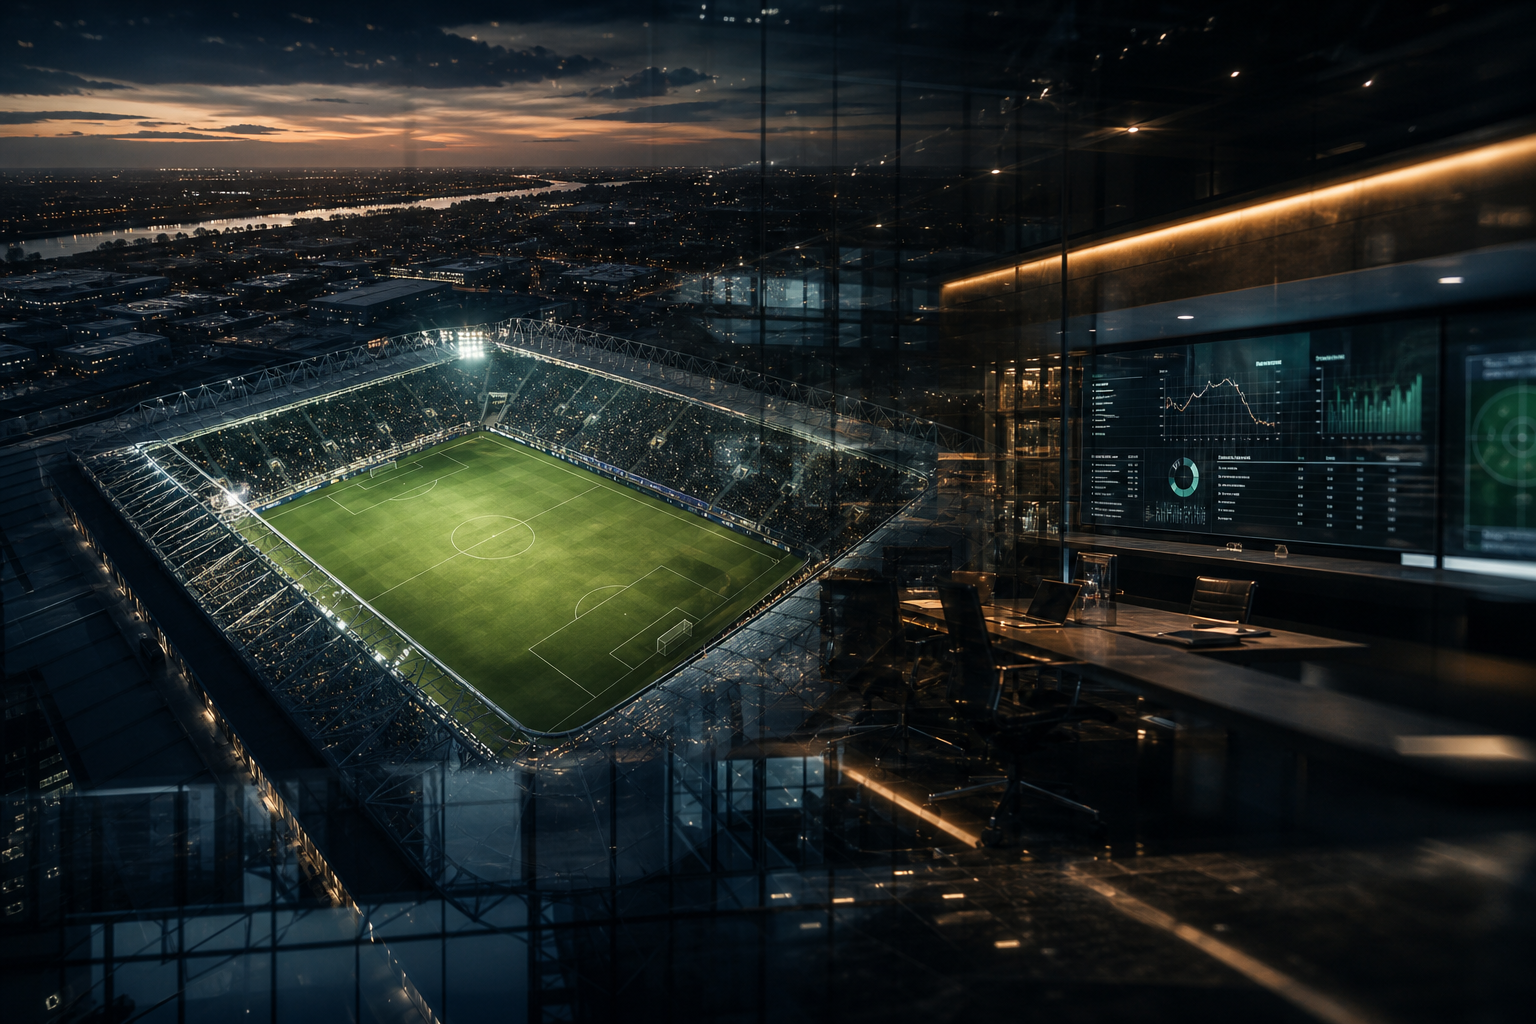
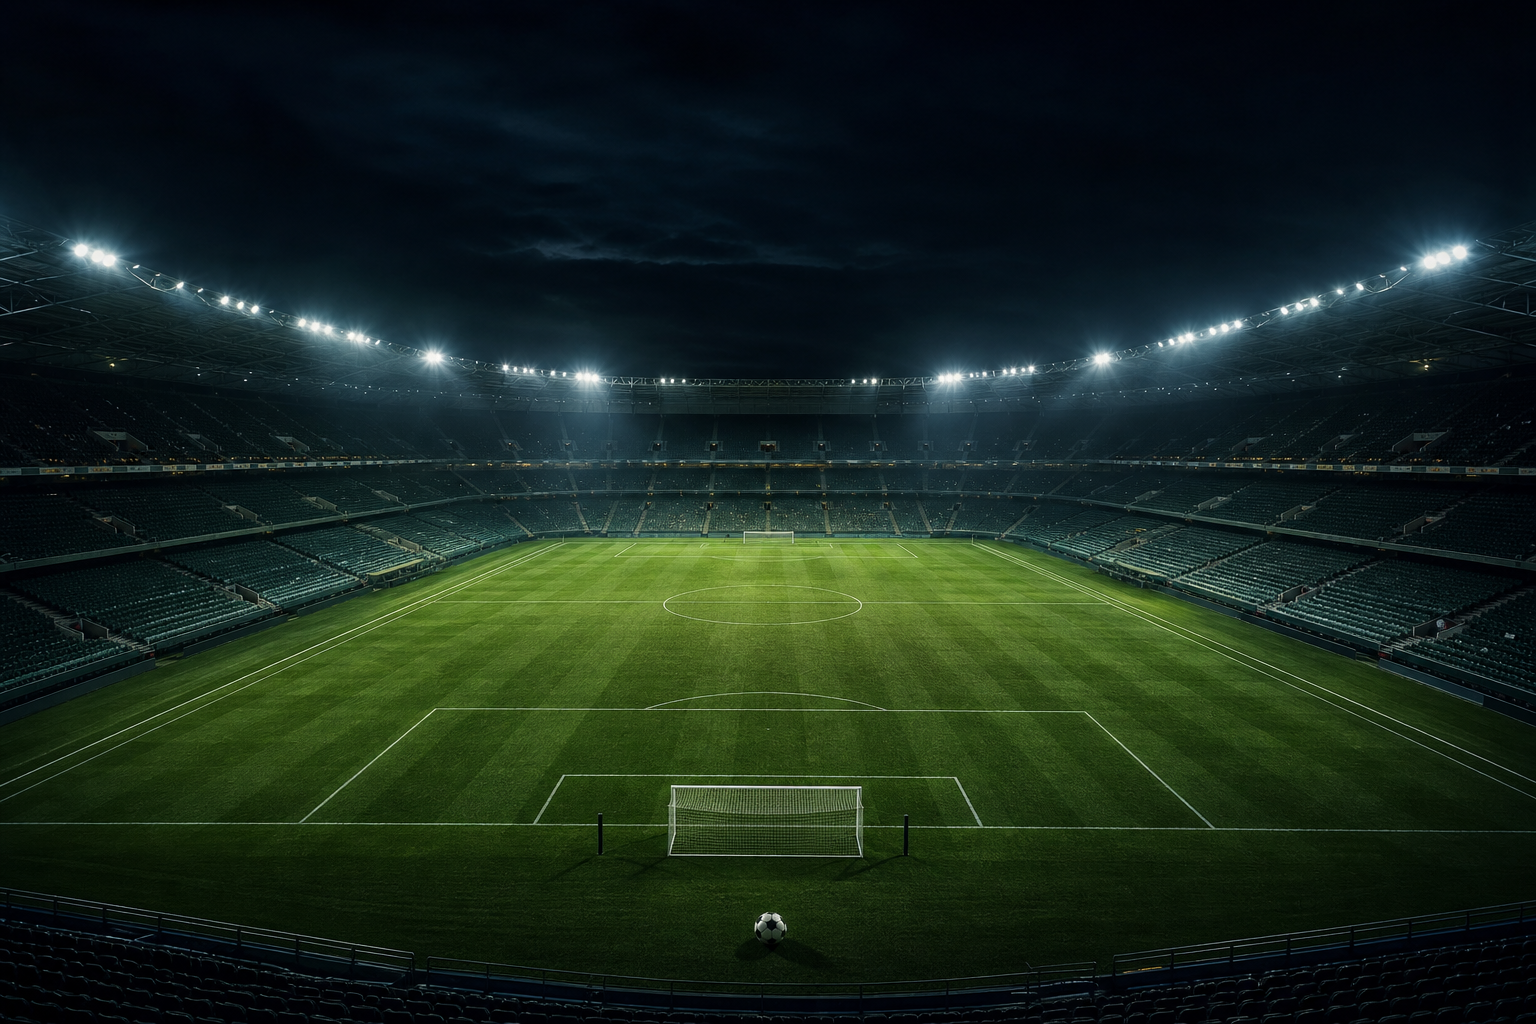
fix(web): troca de senha PATCH, fundo login e requisitos visuais
Corrige proxy change-password em producao, escurece fundo esportivo do login e adiciona olho, barra de progresso e checklist na tela de nova senha.

diff --git a/apps/web/src/app/change-password/page.tsx b/apps/web/src/app/change-password/page.tsx
@@ -1,8 +1,12 @@
 "use client";
 
-import { Suspense, useState, useEffect } from "react";
+import { Suspense, useMemo, useState, useEffect } from "react";
 import { useRouter, useSearchParams } from "next/navigation";
-import { validateCognitoPassword, getPasswordRequirementLabels } from "@/lib/passwordPolicy";
+import { Eye, EyeOff, Check, Loader2 } from "lucide-react";
+import {
+  validateCognitoPassword,
+  getPasswordRequirementChecks,
+} from "@/lib/passwordPolicy";
 import { authFetch } from "@/lib/authFetch";
 import { Button } from "@/components/ui/button";
 import { Input } from "@/components/ui/input";
@@ -14,6 +18,120 @@ import {
   CardHeader,
   CardTitle,
 } from "@/components/ui/card";
+import { cn } from "@/lib/utils";
+
+function parseApiError(text: string): string {
+  const trimmed = text.trim();
+  if (!trimmed) return "Erro ao definir senha.";
+  try {
+    const data = JSON.parse(trimmed) as { message?: string | string[] };
+    if (Array.isArray(data.message)) return data.message.join("; ");
+    if (typeof data.message === "string") return data.message;
+  } catch {
+    /* texto puro */
+  }
+  return trimmed.length > 200 ? "Erro ao definir senha." : trimmed;
+}
+
+function PasswordField({
+  id,
+  label,
+  value,
+  onChange,
+  show,
+  onToggleShow,
+}: {
+  id: string;
+  label: string;
+  value: string;
+  onChange: (v: string) => void;
+  show: boolean;
+  onToggleShow: () => void;
+}) {
+  return (
+    <div className="space-y-2">
+      <Label htmlFor={id} className="text-zinc-300">
+        {label}
+      </Label>
+      <div className="relative">
+        <Input
+          id={id}
+          type={show ? "text" : "password"}
+          value={value}
+          onChange={(e) => onChange(e.target.value)}
+          placeholder="••••••••"
+          required
+          minLength={8}
+          className="bg-zinc-800/50 border-zinc-700 pr-11 text-zinc-100 placeholder:text-zinc-500 focus-visible:ring-amber-500/50"
+          autoComplete={id === "newPassword" ? "new-password" : "new-password"}
+        />
+        <button
+          type="button"
+          onClick={onToggleShow}
+          className="absolute right-1 top-1/2 flex h-9 w-9 -translate-y-1/2 items-center justify-center rounded-md text-zinc-400 hover:text-zinc-200"
+          aria-label={show ? "Ocultar senha" : "Mostrar senha"}
+        >
+          {show ? <EyeOff className="h-4 w-4" /> : <Eye className="h-4 w-4" />}
+        </button>
+      </div>
+    </div>
+  );
+}
+
+function PasswordRequirementsProgress({ password }: { password: string }) {
+  const checks = useMemo(() => getPasswordRequirementChecks(password), [password]);
+  const metCount = checks.filter((c) => c.met).length;
+  const pct = Math.round((metCount / checks.length) * 100);
+
+  return (
+    <div className="space-y-3 rounded-lg border border-zinc-700/80 bg-zinc-900/50 p-3">
+      <div className="flex items-center justify-between gap-2 text-xs text-zinc-400">
+        <span>Força da senha</span>
+        <span className="font-medium text-zinc-300">{metCount}/{checks.length}</span>
+      </div>
+      <div className="h-2 overflow-hidden rounded-full bg-zinc-800">
+        <div
+          className={cn(
+            "h-full rounded-full transition-all duration-300",
+            pct === 100 ? "bg-emerald-500" : pct >= 60 ? "bg-amber-500" : "bg-amber-600/70",
+          )}
+          style={{ width: `${pct}%` }}
+        />
+      </div>
+      <ul className="space-y-1.5">
+        {checks.map((c) => (
+          <li
+            key={c.id}
+            className={cn(
+              "flex items-start gap-2 text-xs",
+              c.met ? "text-emerald-400" : "text-zinc-500",
+            )}
+          >
+            <Check className={cn("mt-0.5 h-3.5 w-3.5 shrink-0", !c.met && "opacity-30")} />
+            <span>{c.label}</span>
+          </li>
+        ))}
+      </ul>
+    </div>
+  );
+}
+
+function AuthScreenBackdrop() {
+  return (
+    <>
+      <div
+        className="absolute inset-0 scale-[1.08] bg-cover bg-center bg-no-repeat opacity-[0.22] blur-[2px] saturate-[0.75]"
+        style={{ backgroundImage: "url(/login-platform-bg.jpg)" }}
+        aria-hidden
+      />
+      <div className="absolute inset-0 bg-zinc-950/82" aria-hidden />
+      <div
+        className="absolute inset-0 bg-gradient-to-br from-zinc-950/95 via-emerald-950/88 to-zinc-950/96"
+        aria-hidden
+      />
+    </>
+  );
+}
 
 function ChangePasswordForm() {
   const router = useRouter();
@@ -21,6 +139,8 @@ function ChangePasswordForm() {
   const next = searchParams.get("next")?.trim() || "/dashboard";
   const [newPassword, setNewPassword] = useState("");
   const [confirmPassword, setConfirmPassword] = useState("");
+  const [showNew, setShowNew] = useState(false);
+  const [showConfirm, setShowConfirm] = useState(false);
   const [loading, setLoading] = useState(false);
   const [checking, setChecking] = useState(true);
   const [error, setError] = useState<string | null>(null);
@@ -73,8 +193,7 @@ function ChangePasswordForm() {
         body: JSON.stringify({ newPassword }),
       });
       if (!res.ok) {
-        const text = await res.text();
-        throw new Error(text || "Erro ao definir senha");
+        throw new Error(parseApiError(await res.text()));
       }
       router.replace(next.startsWith("/") ? next : "/dashboard");
     } catch (err: unknown) {
@@ -86,63 +205,82 @@ function ChangePasswordForm() {
 
   if (checking) {
     return (
-      <div className="min-h-screen flex items-center justify-center bg-background p-4">
-        <p className="text-muted-foreground">Carregando…</p>
+      <div className="relative flex min-h-dvh items-center justify-center px-4">
+        <AuthScreenBackdrop />
+        <p className="relative text-zinc-400">Carregando…</p>
       </div>
     );
   }
 
+  const passwordsMatch =
+    confirmPassword.length > 0 && newPassword.length > 0 && newPassword === confirmPassword;
+
   return (
-    <div className="min-h-screen flex items-center justify-center bg-background p-4">
-      <Card className="w-full max-w-md">
-        <CardHeader>
-          <CardTitle>Definir nova senha</CardTitle>
-          <CardDescription className="space-y-1">
-            <span className="block">Primeiro acesso: crie sua senha pessoal.</span>
-            <span className="block text-xs text-muted-foreground mt-1">
-              Requisitos: {getPasswordRequirementLabels().join("; ")}.
-            </span>
-          </CardDescription>
-        </CardHeader>
-        <CardContent>
-          <form onSubmit={handleSubmit} className="space-y-4">
-            {error && (
-              <div className="text-sm px-3 py-2 rounded-md bg-destructive/10 border border-destructive/20 text-destructive">
-                {error}
-              </div>
-            )}
-            <div className="space-y-2">
-              <Label htmlFor="newPassword">Nova senha *</Label>
-              <Input
+    <div className="relative flex min-h-dvh items-center justify-center overflow-hidden px-4 py-8">
+      <AuthScreenBackdrop />
+      <div className="relative w-full max-w-[440px] rounded-2xl border-[3px] border-amber-400/90 p-[2px] shadow-2xl shadow-black/50">
+        <Card className="rounded-[calc(1rem-2px)] border border-white/90 bg-zinc-900/95 shadow-none backdrop-blur-sm">
+          <CardHeader>
+            <CardTitle className="text-zinc-100">Definir nova senha</CardTitle>
+            <CardDescription className="text-zinc-400">
+              Primeiro acesso: crie sua senha pessoal.
+            </CardDescription>
+          </CardHeader>
+          <CardContent>
+            <form onSubmit={handleSubmit} className="space-y-4">
+              {error && (
+                <div
+                  role="alert"
+                  className="rounded-lg border border-amber-500/30 bg-amber-500/10 px-4 py-3 text-sm text-amber-200"
+                >
+                  {error}
+                </div>
+              )}
+              <PasswordField
                 id="newPassword"
-                type="password"
+                label="Nova senha *"
                 value={newPassword}
-                onChange={(e) => setNewPassword(e.target.value)}
-                placeholder="••••••••"
-                required
-                minLength={8}
-                className="text-foreground"
+                onChange={setNewPassword}
+                show={showNew}
+                onToggleShow={() => setShowNew((s) => !s)}
               />
-            </div>
-            <div className="space-y-2">
-              <Label htmlFor="confirmPassword">Confirmar senha *</Label>
-              <Input
+              <PasswordRequirementsProgress password={newPassword} />
+              <PasswordField
                 id="confirmPassword"
-                type="password"
+                label="Confirmar senha *"
                 value={confirmPassword}
-                onChange={(e) => setConfirmPassword(e.target.value)}
-                placeholder="••••••••"
-                required
-                minLength={8}
-                className="text-foreground"
+                onChange={setConfirmPassword}
+                show={showConfirm}
+                onToggleShow={() => setShowConfirm((s) => !s)}
               />
-            </div>
-            <Button type="submit" className="w-full min-h-[44px]" disabled={loading}>
-              {loading ? "Salvando…" : "Definir senha e continuar"}
-            </Button>
-          </form>
-        </CardContent>
-      </Card>
+              {confirmPassword.length > 0 && (
+                <p
+                  className={cn(
+                    "text-xs",
+                    passwordsMatch ? "text-emerald-400" : "text-amber-300",
+                  )}
+                >
+                  {passwordsMatch ? "Senhas coincidem." : "As senhas ainda não coincidem."}
+                </p>
+              )}
+              <Button
+                type="submit"
+                className="min-h-[44px] w-full bg-amber-600 font-medium text-zinc-950 hover:bg-amber-500"
+                disabled={loading}
+              >
+                {loading ? (
+                  <>
+                    <Loader2 className="mr-2 h-4 w-4 animate-spin" />
+                    Salvando…
+                  </>
+                ) : (
+                  "Definir senha e continuar"
+                )}
+              </Button>
+            </form>
+          </CardContent>
+        </Card>
+      </div>
     </div>
   );
 }
@@ -151,8 +289,9 @@ export default function ChangePasswordPage() {
   return (
     <Suspense
       fallback={
-        <div className="min-h-screen flex items-center justify-center bg-background p-4">
-          <p className="text-muted-foreground">Carregando…</p>
+        <div className="relative flex min-h-dvh items-center justify-center px-4">
+          <AuthScreenBackdrop />
+          <p className="relative text-zinc-400">Carregando…</p>
         </div>
       }
     >

diff --git a/apps/web/src/app/login/page.tsx b/apps/web/src/app/login/page.tsx
@@ -69,12 +69,19 @@ function LoginForm() {
   return (
     <div className="relative flex min-h-dvh items-center justify-center overflow-hidden px-4 py-8">
       <div
-        className="absolute inset-0 bg-cover bg-center bg-no-repeat"
+        className="absolute inset-0 scale-[1.08] bg-cover bg-center bg-no-repeat opacity-[0.22] blur-[2px] saturate-[0.75]"
         style={{ backgroundImage: "url(/login-platform-bg.jpg)" }}
         aria-hidden
       />
-      <div className="absolute inset-0 bg-gradient-to-br from-zinc-950/88 via-emerald-950/75 to-zinc-950/90" aria-hidden />
-      <div className="absolute inset-0 bg-[radial-gradient(ellipse_70%_55%_at_50%_40%,rgba(245,158,11,0.12),transparent)] pointer-events-none" aria-hidden />
+      <div className="absolute inset-0 bg-zinc-950/82" aria-hidden />
+      <div
+        className="absolute inset-0 bg-gradient-to-br from-zinc-950/95 via-emerald-950/88 to-zinc-950/96"
+        aria-hidden
+      />
+      <div
+        className="pointer-events-none absolute inset-0 bg-[radial-gradient(ellipse_65%_50%_at_50%_38%,rgba(16,185,129,0.08),transparent)]"
+        aria-hidden
+      />
       <div className="relative w-full max-w-[420px] rounded-2xl border-[3px] border-amber-400/90 p-[2px] shadow-2xl shadow-black/50">
         <Card className="rounded-[calc(1rem-2px)] border border-white/90 shadow-none bg-zinc-900/95 backdrop-blur-sm">
           <CardHeader className="space-y-4 pb-4 text-center">

diff --git a/apps/web/src/app/api/me/change-password/route.ts b/apps/web/src/app/api/me/change-password/route.ts
@@ -1,9 +1,16 @@
 import { NextRequest, NextResponse } from "next/server";
 import { forwardRequest } from "@/lib/apiProxy";
 
-/**
- * POST /api/me/change-password — troca obrigatória no primeiro login.
- */
-export async function POST(request: NextRequest) {
+async function proxyChangePassword(request: NextRequest) {
   return forwardRequest(request, "/me/change-password", { requireAuth: true });
+}
+
+/** PATCH /api/me/change-password — troca obrigatória no primeiro login. */
+export async function PATCH(request: NextRequest) {
+  return proxyChangePassword(request);
+}
+
+/** POST — alias para compatibilidade. */
+export async function POST(request: NextRequest) {
+  return proxyChangePassword(request);
 }

diff --git a/apps/web/src/lib/passwordPolicy.ts b/apps/web/src/lib/passwordPolicy.ts
@@ -45,3 +45,17 @@ export function validateCognitoPassword(password: string): PasswordValidationRes
 export function getPasswordRequirementLabels(): string[] {
   return REQUIREMENTS.map((r) => r.label);
 }
+
+export interface PasswordRequirementCheck {
+  id: string;
+  label: string;
+  met: boolean;
+}
+
+export function getPasswordRequirementChecks(password: string): PasswordRequirementCheck[] {
+  return REQUIREMENTS.map((r, i) => ({
+    id: `req-${i}`,
+    label: r.label,
+    met: r.test(password),
+  }));
+}
